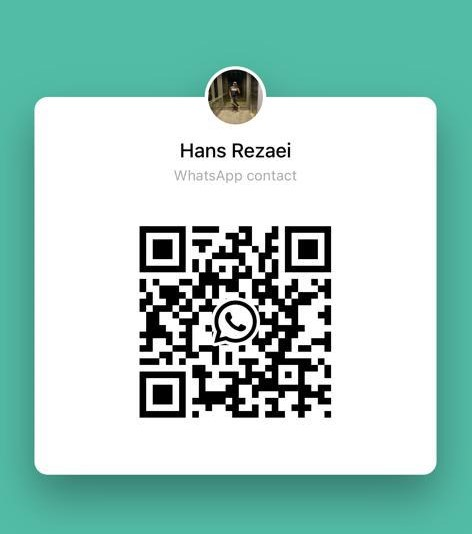
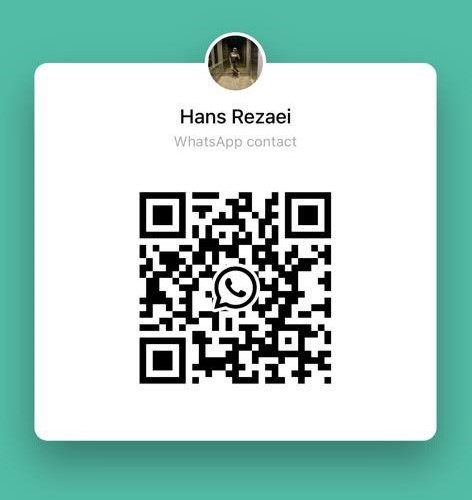
Navigational changes and contact form changes

Changed region(s): [[0.0593, 0.06, 0.9492, 0.81], [0.0593, 0.87, 0.9195, 0.9]]

diff --git a/index.html b/index.html
@@ -148,9 +148,10 @@
         </button>
         <div class="collapse navbar-collapse" id="navbarCollapse">
             <div class="navbar-nav ms-auto p-4 p-lg-0">
+                <!-- <a href="index.html" class="nav-item nav-link">Home</a> -->
+                <a href="about.html" class="nav-item nav-link">About Us</a>
                 <a href="services.html" class="nav-item nav-link">Services</a>
                 <a href="project.html" class="nav-item nav-link">Portfolio</a>
-                <a href="about.html" class="nav-item nav-link">About Us</a>
                 <a href="contact.html" class="nav-item nav-link">Contact Us</a>
                 
             </div>
@@ -228,7 +229,7 @@
                         <div class="d-flex align-items-center justify-content-center bg-light" style="width: 60px; height: 60px;">
                             <i class="fa fa-user-check fa-2x text-primary"></i>
                         </div>
-                        <h1 class="display-1 text-light mb-0">01</h1>
+                        <h1 class="display-1 text-dark mb-0">01</h1>
                     </div>
                     <h5>Creative Designs</h5>
                 </div>
@@ -237,7 +238,7 @@
                         <div class="d-flex align-items-center justify-content-center bg-light" style="width: 60px; height: 60px;">
                             <i class="fa fa-check fa-2x text-primary"></i>
                         </div>
-                        <h1 class="display-1 text-light mb-0">02</h1>
+                        <h1 class="display-1 text-dark mb-0">02</h1>
                     </div>
                     <h5>Quality Products</h5>
                 </div>
@@ -246,7 +247,7 @@
                         <div class="d-flex align-items-center justify-content-center bg-light" style="width: 60px; height: 60px;">
                             <i class="fa fa-headphones fa-2x text-primary"></i>
                         </div>
-                        <h1 class="display-1 text-light mb-0">03</h1>
+                        <h1 class="display-1 text-dark mb-0">03</h1>
                     </div>
                     <h5>Customer Support</h5>
                 </div>
@@ -255,7 +256,7 @@
                         <div class="d-flex align-items-center justify-content-center bg-light" style="width: 60px; height: 60px;">
                             <i class="fa fa-headphones fa-2x text-primary"></i>
                         </div>
-                        <h1 class="display-1 text-light mb-0">04</h1>
+                        <h1 class="display-1 text-dark mb-0">04</h1>
                     </div>
                     <h5>Customisation Options</h5>
                 </div>
@@ -600,7 +601,7 @@
                             <div class="row g-3">
                                 <div class="col-12 col-sm-6">
                                     <div class="form-floating">
-                                        <input type="text" class="form-control" id="name" placeholder="Your Name">
+                                        <input type="text" class="form-control" id="name" placeholder="Your Name" required>
                                         <label for="name">Name</label>
                                     </div>
                                 </div>
@@ -609,8 +610,8 @@
                                 </div> -->
                                 <div class="col-12 col-sm-6">
                                     <div class="form-floating">
-                                        <input type = 'phone' class="form-control" id="phone" placeholder="Your Email">
-                                        <label for="email">Mobile</label>
+                                        <input type = 'tel' pattern="[0-9]{3}-[0-9]{3}-[0-9]{4}" class="form-control" id="phone" placeholder="Your Phone" required>
+                                        <label for="mobile">Mobile (000-000-0000)</label>
                                     </div>
                                 </div>
                                 <div class="col-12">
@@ -647,7 +648,7 @@
                                 <h2 style="color:#D7BA89;max-width: 100%;">Contact Us</h2>
                                 <p>Scan below QR code to reach out to us on WhatsApp</p>
                                 <p>Or Click on below button to open WhatsApp</p>
-                                <img src="img/WhatsapP QR.jpg" alt="WhatsApp QR" style="position:relative" width="200px", height="200px">
+                                <img src="img/WhatsapP QR.jpg" alt="WhatsApp QR" style="position:relative" width="250px", height="250px">
                                 <br>
                                 <button class="btn btn-primary py-3" type="submit" onclick=gotowhatsapp() style="width: 180px; height: 50px;">Open WhatsApp</button>
                                 <script src="main.js"></script>

diff --git a/about.html b/about.html
@@ -9,7 +9,7 @@
     <meta content="" name="description">
 
     <!-- Favicon -->
-    <link href="img/favicon.ico" rel="icon">
+    <link href="img/fevicon.png" rel="icon">
 
     <!-- Google Web Fonts -->
     <link rel="preconnect" href="https://fonts.googleapis.com">
@@ -101,9 +101,10 @@
         </button>
         <div class="collapse navbar-collapse" id="navbarCollapse">
             <div class="navbar-nav ms-auto p-4 p-lg-0">
+                <a href="index.html" class="nav-item nav-link">Home</a>
+                <!-- <a href="about.html" class="nav-item nav-link">About Us</a> -->
                 <a href="services.html" class="nav-item nav-link">Services</a>
                 <a href="project.html" class="nav-item nav-link">Portfolio</a>
-                <a href="about.html" class="nav-item nav-link">About Us</a>
                 <a href="contact.html" class="nav-item nav-link">Contact Us</a>
             </div>
                 
@@ -138,7 +139,7 @@
                         <div class="d-flex align-items-center justify-content-center bg-light" style="width: 60px; height: 60px;">
                             <i class="fa fa-user-check fa-2x text-primary"></i>
                         </div>
-                        <h1 class="display-1 text-light mb-0">01</h1>
+                        <h1 class="display-1 text-dark mb-0">01</h1>
                     </div>
                     <h5>Creative Designers</h5>
                 </div>
@@ -147,7 +148,7 @@
                         <div class="d-flex align-items-center justify-content-center bg-light" style="width: 60px; height: 60px;">
                             <i class="fa fa-check fa-2x text-primary"></i>
                         </div>
-                        <h1 class="display-1 text-light mb-0">02</h1>
+                        <h1 class="display-1 text-dark mb-0">02</h1>
                     </div>
                     <h5>Quality Products</h5>
                 </div>
@@ -156,7 +157,7 @@
                         <div class="d-flex align-items-center justify-content-center bg-light" style="width: 60px; height: 60px;">
                             <i class="fa fa-drafting-compass fa-2x text-primary"></i>
                         </div>
-                        <h1 class="display-1 text-light mb-0">03</h1>
+                        <h1 class="display-1 text-dark mb-0">03</h1>
                     </div>
                     <h5>Customer Support</h5>
                 </div>
@@ -165,7 +166,7 @@
                         <div class="d-flex align-items-center justify-content-center bg-light" style="width: 60px; height: 60px;">
                             <i class="fa fa-headphones fa-2x text-primary"></i>
                         </div>
-                        <h1 class="display-1 text-light mb-0">04</h1>
+                        <h1 class="display-1 text-dark mb-0">04</h1>
                     </div>
                     <h5>Customer Options </h5>
                 </div>

diff --git a/services.html b/services.html
@@ -149,9 +149,10 @@
         </button>
         <div class="collapse navbar-collapse" id="navbarCollapse">
             <div class="navbar-nav ms-auto p-4 p-lg-0">
-                <a href="services.html" class="nav-item nav-link">Services</a>
-                <a href="project.html" class="nav-item nav-link">Portfolio</a>
+                <a href="index.html" class="nav-item nav-link">Home</a>
                 <a href="about.html" class="nav-item nav-link">About Us</a>
+                <!-- <a href="services.html" class="nav-item nav-link">Services</a> -->
+                <a href="project.html" class="nav-item nav-link">Portfolio</a>
                 <a href="contact.html" class="nav-item nav-link">Contact Us</a>
             </div>
                 
@@ -409,7 +410,7 @@
                             <div class="row g-3">
                                 <div class="col-12 col-sm-6">
                                     <div class="form-floating">
-                                        <input type="text" class="form-control" id="name" placeholder="Your Name">
+                                        <input type="text" class="form-control" id="name" placeholder="Your Name" required>
                                         <label for="name">Name</label>
                                     </div>
                                 </div>
@@ -418,8 +419,8 @@
                                 </div> -->
                                 <div class="col-12 col-sm-6">
                                     <div class="form-floating">
-                                        <input type = 'phone' class="form-control" id="phone" placeholder="Your Email">
-                                        <label for="email">Mobile</label>
+                                        <input type = 'tel' pattern="[0-9]{3}-[0-9]{3}-[0-9]{4}" class="form-control" id="phone" placeholder="Your Phone" required>
+                                        <label for="mobile">Mobile (000-000-0000)</label>
                                     </div>
                                 </div>
                                 <div class="col-12">
@@ -456,7 +457,7 @@
                                 <h2 style="color:#D7BA89;max-width: 100%;">Contact Us</h2>
                                 <p>Scan below QR code to reach out to us on WhatsApp</p>
                                 <p>Or Click on below button to open WhatsApp</p>
-                                <img src="img/WhatsapP QR.jpg" alt="WhatsApp QR" style="position:relative" width="200px", height="200px">
+                                <img src="img/WhatsapP QR.jpg" alt="WhatsApp QR" style="position:relative" width="250px", height="250px">
                                 <br>
                                 <button class="btn btn-primary py-3" type="submit" onclick=gotowhatsapp() style="width: 180px; height: 50px;">Open WhatsApp</button>
                                 <script src="main.js"></script>

diff --git a/contact.html b/contact.html
@@ -117,10 +117,11 @@
         </button>
         <div class="collapse navbar-collapse" id="navbarCollapse">
             <div class="navbar-nav ms-auto p-4 p-lg-0">
+                <a href="index.html" class="nav-item nav-link">Home</a>
+                <a href="about.html" class="nav-item nav-link">About Us</a>
                 <a href="services.html" class="nav-item nav-link">Services</a>
                 <a href="project.html" class="nav-item nav-link">Portfolio</a>
-                <a href="about.html" class="nav-item nav-link">About Us</a>
-                <a href="contact.html" class="nav-item nav-link">Contact Us</a>
+                <!-- <a href="contact.html" class="nav-item nav-link">Contact Us</a> -->
             </div>
                 
         </div>
@@ -165,8 +166,8 @@
                                 </div>
                                 <div class="col-md-6">
                                     <div class="form-floating">
-                                        <input type = 'phone' class="form-control" id="phone" placeholder="Your Phone" required>
-                                        <label for="email">Mobile</label>
+                                        <input type = 'tel' pattern="[0-9]{3}-[0-9]{3}-[0-9]{4}" class="form-control" id="phone" placeholder="Your Phone" required>
+                                        <label for="mobile">Mobile (000-000-0000)</label>
                                     </div>
                                 </div>
                                 <div class="col-12">
@@ -203,7 +204,7 @@
                                 <h2 style="color:#D7BA89;max-width: 100%;">Contact Us</h2>
                                 <p>Scan below QR code to reach out to us on WhatsApp</p>
                                 <p>Or Click on below button to open WhatsApp</p>
-                                <img src="img/WhatsapP QR.jpg" alt="WhatsApp QR" style="position:relative" width="200px", height="200px">
+                                <img src="img/WhatsapP QR.jpg" alt="WhatsApp QR" style="position:relative" width="250px", height="250px">
                                 <br>
                                 <button class="btn btn-primary py-3" type="submit" onclick=gotowhatsapp() style="width: 180px; height: 50px;">Open WhatsApp</button>
                                 <script src="main.js"></script>

diff --git a/project.html b/project.html
@@ -116,11 +116,11 @@
         </button>
         <div class="collapse navbar-collapse" id="navbarCollapse">
             <div class="navbar-nav ms-auto p-4 p-lg-0">
-                <a href="services.html" class="nav-item nav-link">Services</a>
-                <a href="project.html" class="nav-item nav-link">Portfolio</a>
+                <a href="index.html" class="nav-item nav-link">Home</a>
                 <a href="about.html" class="nav-item nav-link">About Us</a>
-                <a href="contact.html" class="nav-item nav-link">Contact Us</a>
-                
+                <a href="services.html" class="nav-item nav-link">Services</a>
+                <!-- <a href="project.html" class="nav-item nav-link">Portfolio</a> -->
+                <a href="contact.html" class="nav-item nav-link">Contact Us</a>                
             </div>
                 
         </div>

diff --git a/gallery.html b/gallery.html
@@ -102,9 +102,10 @@
         </button>
         <div class="collapse navbar-collapse" id="navbarCollapse">
             <div class="navbar-nav ms-auto p-4 p-lg-0">
+                <!-- <a href="index.html" class="nav-item nav-link">Home</a> -->
+                <a href="about.html" class="nav-item nav-link">About Us</a>
                 <a href="services.html" class="nav-item nav-link">Services</a>
                 <a href="project.html" class="nav-item nav-link">Portfolio</a>
-                <a href="about.html" class="nav-item nav-link">About Us</a>
                 <a href="contact.html" class="nav-item nav-link">Contact Us</a>
             </div>
                 
